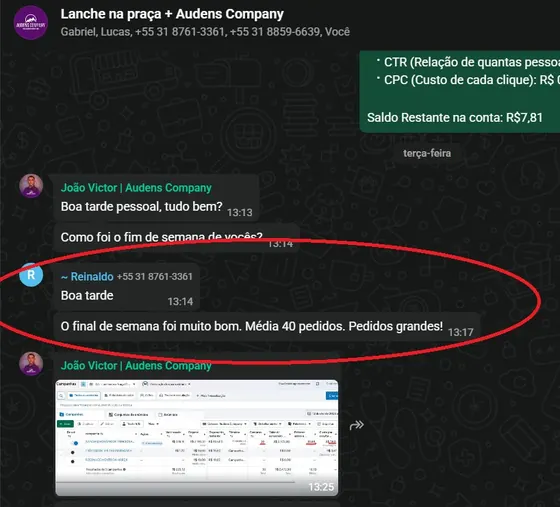
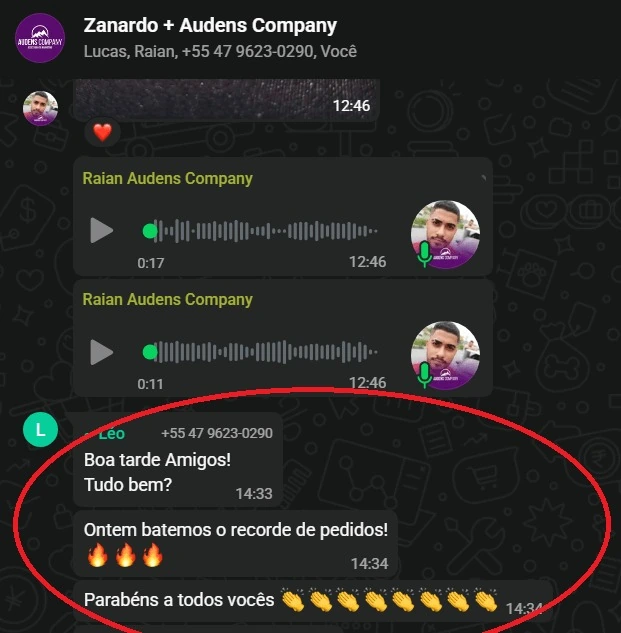
Provas: 3 destaques de clientes diferentes (Tulio 351, Lanche na Praca 40, Zanardo recorde) com prints em alta

diff --git a/index.html b/index.html
@@ -221,6 +221,7 @@ header.scrolled{background:rgba(7,6,11,.86);backdrop-filter:blur(14px);border-bo
 .proof-row:first-of-type{border-top:none}
 @media(max-width:860px){.proof-row{grid-template-columns:1fr;gap:18px;padding:34px 0}}
 .proof-row .pn{font-family:var(--ff-d);font-weight:700;font-size:clamp(64px,11vw,128px);line-height:.82;letter-spacing:-.03em;color:var(--white)}
+.proof-row .pn.word{font-size:clamp(34px,5.2vw,60px);letter-spacing:0;text-transform:uppercase;color:var(--purple-2)}
 .proof-row .pt{max-width:30ch}
 .proof-row .pt .ctx{font-size:clamp(18px,2.2vw,22px);font-family:var(--ff-d);font-weight:500;color:var(--white);line-height:1.15}
 .proof-row .pt .who{font-size:13px;color:var(--muted);margin-top:8px}
@@ -887,21 +888,21 @@ footer{position:relative;z-index:2;padding-top:var(--sp-24);overflow:hidden}
       <img class="ps" src="images/proof-351.webp" width="640" height="283" loading="lazy" alt="Print: 351 lanches de sexta a domingo">
     </div>
     <div class="proof-row" data-reveal>
-      <div class="pn">122</div>
-      <div class="pt"><div class="ctx">lanches num único dia — 58 comandas, novo recorde da casa.</div><div class="who">Operação atendida pela Audens · print real</div></div>
-      <img class="ps" src="images/proof-122.webp" width="640" height="365" loading="lazy" alt="Print: 122 lanches num dia, 58 comandas">
+      <div class="pn">40</div>
+      <div class="pt"><div class="ctx">pedidos por dia de média num fim de semana — "pedidos grandes".</div><div class="who">Lanche na Praça · print real</div></div>
+      <img class="ps" src="images/proof-lanchepraca.webp" width="818" height="741" loading="lazy" alt="Print do cliente Lanche na Praça: média de 40 pedidos por dia">
     </div>
     <div class="proof-row" data-reveal>
-      <div class="pn">+300</div>
-      <div class="pt"><div class="ctx">lanches de sexta a domingo, semana após semana.</div><div class="who">Operação atendida pela Audens · print real</div></div>
-      <img class="ps" src="images/proof-300.webp" width="640" height="172" loading="lazy" alt="Print: mais de 300 lanches no fim de semana">
+      <div class="pn word">Recorde</div>
+      <div class="pt"><div class="ctx">de pedidos batido — em mais uma operação do grupo.</div><div class="who">Zanardo · print real</div></div>
+      <img class="ps" src="images/proof-zanardo.webp" width="621" height="633" loading="lazy" alt="Print do cliente Zanardo: recorde de pedidos batido">
     </div>
 
     <div class="more-btn"><button class="btn btn-line" id="moreProof" aria-expanded="false" aria-controls="moreWrap">Ver mais resultados <svg class="ar" aria-hidden="true"><use href="#arrow"/></svg></button></div>
     <div class="proof-more" id="moreWrap">
-      <figure class="pm"><img src="images/proof-zanardo.webp" width="560" height="507" loading="lazy" alt="Cliente Zanardo: recorde de pedidos"><figcaption class="cap"><b>Zanardo</b> — "Ontem batemos o recorde de pedidos!"</figcaption></figure>
-      <figure class="pm"><img src="images/proof-lanchepraca.webp" width="560" height="570" loading="lazy" alt="Lanche na Praça: média 40 pedidos"><figcaption class="cap"><b>Lanche na Praça</b> — "Média 40 pedidos. Pedidos grandes!"</figcaption></figure>
-      <figure class="pm"><img src="images/proof-hashtag.webp" width="560" height="465" loading="lazy" alt="Hashtag Lanches: recorde de pedidos"><figcaption class="cap"><b>Hashtag Lanches</b> — "batemos o recorde de pedidos"</figcaption></figure>
+      <figure class="pm"><img src="images/proof-122.webp" width="640" height="365" loading="lazy" alt="Print: 122 lanches num dia, 58 comandas"><figcaption class="cap">122 lanches num único dia — 58 comandas, novo recorde da casa.</figcaption></figure>
+      <figure class="pm"><img src="images/proof-300.webp" width="640" height="172" loading="lazy" alt="Print: mais de 300 lanches no fim de semana"><figcaption class="cap">+300 lanches de sexta a domingo, semana após semana.</figcaption></figure>
+      <figure class="pm"><img src="images/proof-hashtag.webp" width="850" height="706" loading="lazy" alt="Print do cliente Hashtag Lanches: recorde de pedidos"><figcaption class="cap"><b>Hashtag Lanches</b> — "batemos o recorde de pedidos".</figcaption></figure>
     </div>
     <p class="auth">Prints reais de clientes. <span style="color:var(--purple-2)">[Confirmar autorização de cada cliente — nomes/telefones podem ser ocultados.]</span></p>
   </div>
